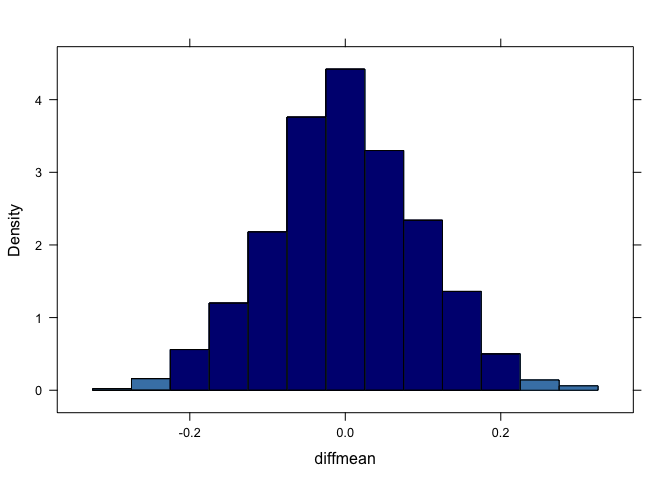
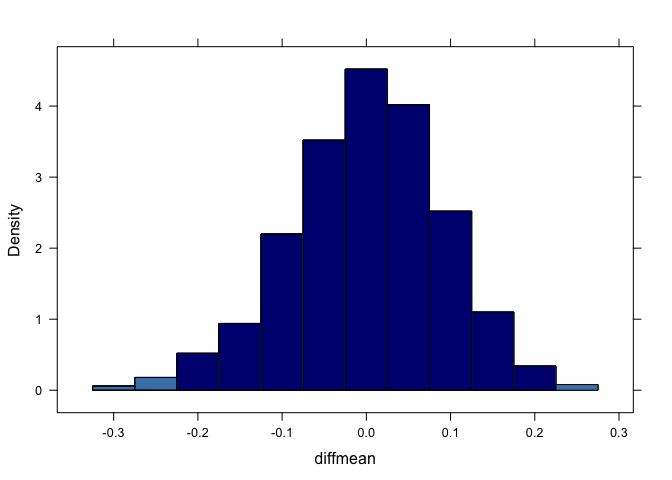
update README

diff --git a/README.md b/README.md
@@ -51,15 +51,15 @@ isi_snippet("Exploration6.3.8")
 #> 	isa_snippet(Exploration6.3.8)
 #> 	------ ~~~~~~~~~~~~~~~~
 #> 
-#> > sim.fri <- do(1000) * diffmean(friends ~ shuffle(sex), data = CloseFriends)
+#> > Friends.null <- do(1000) * diffmean(friends ~ shuffle(sex), data = CloseFriends)
 #> 
-#> > head(sim.fri, 3)
-#>      diffmean
-#> 1 -0.10338310
-#> 2  0.01525667
-#> 3 -0.06751526
+#> > head(Friends.null, 3)
+#>       diffmean
+#> 1 -0.001297719
+#> 2  0.078715145
+#> 3  0.009738538
 #> 
-#> > histogram(~ diffmean, data = sim.fri, width = 0.05,
+#> > histogram(~ diffmean, data = Friends.null, width = 0.05,
 #> +         group = cut(diffmean, c(-0.4, -0.228, 0.228, 0.4)), 
 #> +         fcol = c("steelblue", "navy", "steelblue"))
 ```
